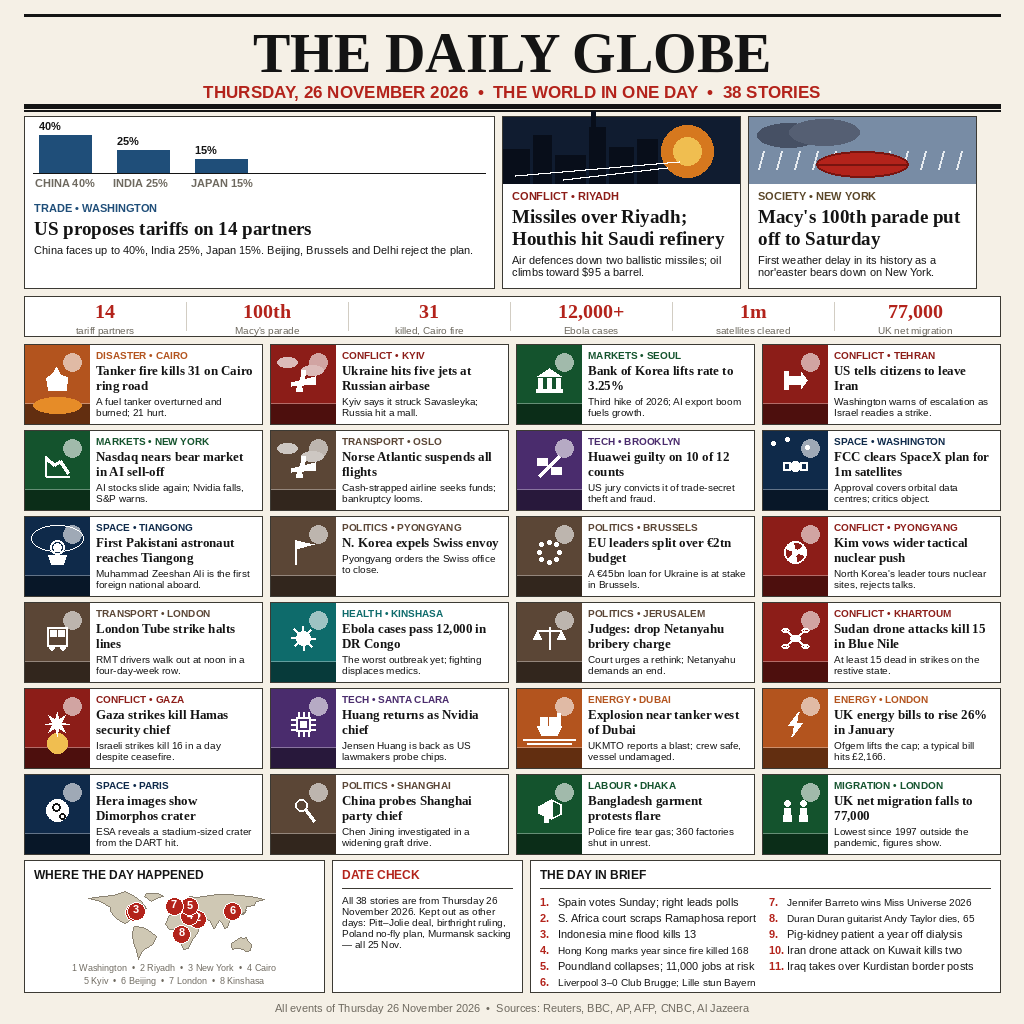
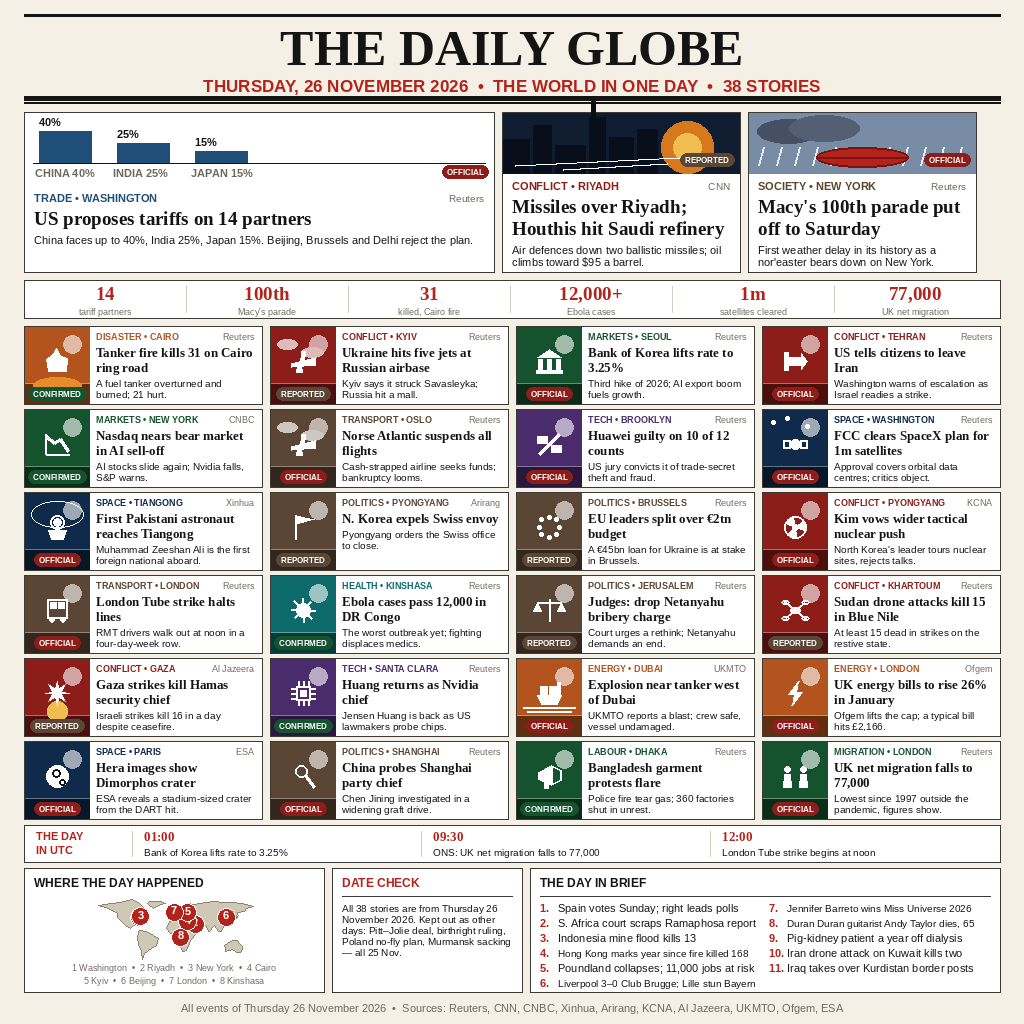
news-image-20261126 v4: UTC timeline strip, per-card source + status tags

diff --git a/render_news.py b/render_news.py
@@ -85,92 +85,116 @@ LEADS = [
          head="US proposes tariffs on 14 partners",
          summ="China faces up to 40%, India 25%, Japan 15%. Beijing, "
               "Brussels and Delhi reject the plan.",
-         kind="tariffs"),
+         kind="tariffs", src="Reuters", st="OFFICIAL"),
     dict(tag="CONFLICT", place="RIYADH", color=(140, 29, 24),
          head="Missiles over Riyadh; Houthis hit Saudi refinery",
          summ="Air defences down two ballistic missiles; oil climbs "
               "toward $95 a barrel.",
-         kind="missile"),
+         kind="missile", src="CNN", st="REPORTED"),
     dict(tag="SOCIETY", place="NEW YORK", color=(90, 70, 40),
          head="Macy's 100th parade put off to Saturday",
          summ="First weather delay in its history as a nor'easter "
               "bears down on New York.",
-         kind="balloon"),
+         kind="balloon", src="Reuters", st="OFFICIAL"),
 ]
 
 GRID = [
     ("DISASTER", "CAIRO", (179, 84, 30), "flame",
      "Tanker fire kills 31 on Cairo ring road",
-     "A fuel tanker overturned and burned; 21 hurt."),
+     "A fuel tanker overturned and burned; 21 hurt.",
+     "Reuters", "CONFIRMED"),
     ("CONFLICT", "KYIV", (140, 29, 24), "jet",
      "Ukraine hits five jets at Russian airbase",
-     "Kyiv says it struck Savasleyka; Russia hit a mall."),
+     "Kyiv says it struck Savasleyka; Russia hit a mall.",
+     "Reuters", "REPORTED"),
     ("MARKETS", "SEOUL", (20, 83, 45), "bank",
      "Bank of Korea lifts rate to 3.25%",
-     "Third hike of 2026; AI export boom fuels growth."),
+     "Third hike of 2026; AI export boom fuels growth.",
+     "Reuters", "OFFICIAL"),
     ("CONFLICT", "TEHRAN", (140, 29, 24), "exit",
      "US tells citizens to leave Iran",
-     "Washington warns of escalation as Israel readies a strike."),
+     "Washington warns of escalation as Israel readies a strike.",
+     "Reuters", "OFFICIAL"),
     ("MARKETS", "NEW YORK", (20, 83, 45), "down",
      "Nasdaq nears bear market in AI sell-off",
-     "AI stocks slide again; Nvidia falls, S&P warns."),
+     "AI stocks slide again; Nvidia falls, S&P warns.",
+     "CNBC", "CONFIRMED"),
     ("TRANSPORT", "OSLO", (91, 70, 54), "jet",
      "Norse Atlantic suspends all flights",
-     "Cash-strapped airline seeks funds; bankruptcy looms."),
+     "Cash-strapped airline seeks funds; bankruptcy looms.",
+     "Reuters", "OFFICIAL"),
     ("TECH", "BROOKLYN", (74, 44, 109), "gavel",
      "Huawei guilty on 10 of 12 counts",
-     "US jury convicts it of trade-secret theft and fraud."),
+     "US jury convicts it of trade-secret theft and fraud.",
+     "Reuters", "OFFICIAL"),
     ("SPACE", "WASHINGTON", (15, 42, 74), "sat",
      "FCC clears SpaceX plan for 1m satellites",
-     "Approval covers orbital data centres; critics object."),
+     "Approval covers orbital data centres; critics object.",
+     "Reuters", "OFFICIAL"),
     ("SPACE", "TIANGONG", (15, 42, 74), "astro",
      "First Pakistani astronaut reaches Tiangong",
-     "Muhammad Zeeshan Ali is the first foreign national aboard."),
+     "Muhammad Zeeshan Ali is the first foreign national aboard.",
+     "Xinhua", "OFFICIAL"),
     ("POLITICS", "PYONGYANG", (91, 70, 54), "flag",
      "N. Korea expels Swiss envoy",
-     "Pyongyang orders the Swiss office to close."),
+     "Pyongyang orders the Swiss office to close.",
+     "Arirang", "REPORTED"),
     ("POLITICS", "BRUSSELS", (91, 70, 54), "stars",
      "EU leaders split over \u20ac2tn budget",
-     "A \u20ac45bn loan for Ukraine is at stake in Brussels."),
+     "A \u20ac45bn loan for Ukraine is at stake in Brussels.",
+     "Reuters", "REPORTED"),
     ("CONFLICT", "PYONGYANG", (140, 29, 24), "nuke",
      "Kim vows wider tactical nuclear push",
-     "North Korea's leader tours nuclear sites, rejects talks."),
+     "North Korea's leader tours nuclear sites, rejects talks.",
+     "KCNA", "OFFICIAL"),
     ("TRANSPORT", "LONDON", (91, 70, 54), "train",
      "London Tube strike halts lines",
-     "RMT drivers walk out at noon in a four-day-week row."),
+     "RMT drivers walk out at noon in a four-day-week row.",
+     "Reuters", "OFFICIAL"),
     ("HEALTH", "KINSHASA", (14, 107, 107), "virus",
      "Ebola cases pass 12,000 in DR Congo",
-     "The worst outbreak yet; fighting displaces medics."),
+     "The worst outbreak yet; fighting displaces medics.",
+     "Reuters", "CONFIRMED"),
     ("POLITICS", "JERUSALEM", (91, 70, 54), "scales",
      "Judges: drop Netanyahu bribery charge",
-     "Court urges a rethink; Netanyahu demands an end."),
+     "Court urges a rethink; Netanyahu demands an end.",
+     "Reuters", "REPORTED"),
     ("CONFLICT", "KHARTOUM", (140, 29, 24), "drone",
      "Sudan drone attacks kill 15 in Blue Nile",
-     "At least 15 dead in strikes on the restive state."),
+     "At least 15 dead in strikes on the restive state.",
+     "Reuters", "REPORTED"),
     ("CONFLICT", "GAZA", (140, 29, 24), "burst",
      "Gaza strikes kill Hamas security chief",
-     "Israeli strikes kill 16 in a day despite ceasefire."),
+     "Israeli strikes kill 16 in a day despite ceasefire.",
+     "Al Jazeera", "REPORTED"),
     ("TECH", "SANTA CLARA", (74, 44, 109), "chip",
      "Huang returns as Nvidia chief",
-     "Jensen Huang is back as US lawmakers probe chips."),
+     "Jensen Huang is back as US lawmakers probe chips.",
+     "Reuters", "CONFIRMED"),
     ("ENERGY", "DUBAI", (179, 84, 30), "ship",
      "Explosion near tanker west of Dubai",
-     "UKMTO reports a blast; crew safe, vessel undamaged."),
+     "UKMTO reports a blast; crew safe, vessel undamaged.",
+     "UKMTO", "OFFICIAL"),
     ("ENERGY", "LONDON", (179, 84, 30), "bolt",
      "UK energy bills to rise 26% in January",
-     "Ofgem lifts the cap; a typical bill hits \u00a32,166."),
+     "Ofgem lifts the cap; a typical bill hits \u00a32,166.",
+     "Ofgem", "OFFICIAL"),
     ("SPACE", "PARIS", (15, 42, 74), "rock",
      "Hera images show Dimorphos crater",
-     "ESA reveals a stadium-sized crater from the DART hit."),
+     "ESA reveals a stadium-sized crater from the DART hit.",
+     "ESA", "OFFICIAL"),
     ("POLITICS", "SHANGHAI", (91, 70, 54), "probe",
      "China probes Shanghai party chief",
-     "Chen Jining investigated in a widening graft drive."),
+     "Chen Jining investigated in a widening graft drive.",
+     "Reuters", "OFFICIAL"),
     ("LABOUR", "DHAKA", (20, 83, 45), "mega",
      "Bangladesh garment protests flare",
-     "Police fire tear gas; 360 factories shut in unrest."),
+     "Police fire tear gas; 360 factories shut in unrest.",
+     "Reuters", "CONFIRMED"),
     ("MIGRATION", "LONDON", (20, 83, 45), "people",
      "UK net migration falls to 77,000",
-     "Lowest since 1997 outside the pandemic, figures show."),
+     "Lowest since 1997 outside the pandemic, figures show.",
+     "Reuters", "OFFICIAL"),
 ]
 
 BRIEF = [
@@ -202,6 +226,25 @@ STATS = [
 DATECHECK = ("All 38 stories are from Thursday 26 November 2026. Kept out "
              "as other days: Pitt\u2013Jolie deal, birthright ruling, "
              "Poland no-fly plan, Murmansk sacking \u2014 all 25 Nov.")
+
+# The day in UTC: only events with a verifiable UTC time on 26 Nov make
+# the strip. BoK announced ~01:00 GMT (Reuters); the ONS figures were
+# published at 09:30 (ONS release); the Tube strike starts at noon GMT
+# (Reuters). Everything else on the page has no solid UTC hour, so the
+# strip stays short rather than padded with guesses.
+TIMELINE = [
+    ("01:00", "Bank of Korea lifts rate to 3.25%"),
+    ("09:30", "ONS: UK net migration falls to 77,000"),
+    ("12:00", "London Tube strike begins at noon"),
+]
+
+# Status tags: OFFICIAL only for an official statement or announcement,
+# CONFIRMED where the fact is independently confirmed, REPORTED otherwise.
+STATUS_COLORS = {
+    "OFFICIAL": (140, 29, 24),
+    "CONFIRMED": (20, 83, 45),
+    "REPORTED": (91, 70, 54),
+}
 
 # Numbered dots on the world map: (lon, lat, number, label).
 DOTS = [
@@ -494,15 +537,15 @@ CONTINENTS = [
 def draw_masthead(d):
     d.rectangle([24, 14, 1000, 16], fill=INK)
     title = "THE DAILY GLOBE"
-    fnt = font(SERIF_B, 56)
+    fnt = font(SERIF_B, 50)
     tw = fnt.getlength(title)
-    d.text(((W - tw) / 2, 22), title, font=fnt, fill=INK)
+    d.text(((W - tw) / 2, 20), title, font=fnt, fill=INK)
     sub = "THURSDAY, 26 NOVEMBER 2026  \u2022  THE WORLD IN ONE DAY  \u2022  38 STORIES"
     fnt2 = font(SANS_B, 17)
     tw2 = fnt2.getlength(sub)
-    d.text(((W - tw2) / 2, 82), sub, font=fnt2, fill=RED)
-    d.rectangle([24, 104, 1000, 108], fill=INK)
-    d.rectangle([24, 110, 1000, 111], fill=INK)
+    d.text(((W - tw2) / 2, 76), sub, font=fnt2, fill=RED)
+    d.rectangle([24, 96, 1000, 100], fill=INK)
+    d.rectangle([24, 102, 1000, 103], fill=INK)
 
 
 def draw_bar_chart(d, x, y, w, h):
@@ -560,13 +603,41 @@ def draw_lead_visual(d, kind, x, y, w, h):
         return
 
 
+def status_pill_width(st):
+    return int(font(SANS_B, 8).getlength(st)) + 10
+
+
+def draw_status_pill(d, st, x, y):
+    """Small white-on-dark status chip; x, y = top-left of the pill."""
+    fnt = font(SANS_B, 8)
+    pw = status_pill_width(st)
+    d.rounded_rectangle([x, y, x + pw, y + 13], radius=6,
+                        fill=STATUS_COLORS[st])
+    tw = fnt.getlength(st)
+    d.text((x + (pw - tw) / 2, y + 2), st, font=fnt, fill=WHITE)
+    return pw
+
+
+def draw_tagline(d, tx, ty, tw, tag, place, color, src, tag_size=10,
+                 src_size=9):
+    """Tag + place left, source right-aligned, one line."""
+    d.text((tx, ty), f"{tag} \u2022 {place}", font=font(SANS_B, tag_size),
+           fill=color)
+    if src:
+        fnt = font(SANS, src_size)
+        sw = fnt.getlength(src)
+        d.text((tx + tw - sw, ty), src, font=fnt, fill=GREY)
+
+
 def draw_lead(d, lead, x, y, w, h):
     d.rectangle([x, y, x + w, y + h], fill=WHITE, outline=RULE, width=1)
-    vh = 66 if lead["kind"] != "tariffs" else 78
+    vh = 60 if lead["kind"] != "tariffs" else 72
     draw_lead_visual(d, lead["kind"], x + 1, y + 1, w - 2, vh)
+    pw = status_pill_width(lead["st"])
+    draw_status_pill(d, lead["st"], x + w - 6 - pw, y + vh - 19)
     ty = y + vh + 8
-    tag = f"{lead['tag']} \u2022 {lead['place']}"
-    d.text((x + 10, ty), tag, font=font(SANS_B, 11), fill=lead["color"])
+    draw_tagline(d, x + 10, ty, w - 20, lead["tag"], lead["place"],
+                 lead["color"], lead["src"], tag_size=11, src_size=10)
     ty += 16
     ty = draw_fitted(d, (x + 10, ty), lead["head"], SERIF_B, 19, w - 20, 2,
                      tag="lead:" + lead["tag"])
@@ -583,7 +654,7 @@ def _blend(color, f=0.6):
     return tuple(int(c + (255 - c) * f) for c in color)
 
 
-def draw_mini_scene(d, kind, color, x, y, w, h):
+def draw_mini_scene(d, kind, color, x, y, w, h, st=None):
     """Small drawn scene for a grid card: coloured sky, ground, sun and a
     white pictogram, with a couple of shapes per subject."""
     d.rectangle([x, y, x + w, y + h], fill=color)
@@ -608,17 +679,20 @@ def draw_mini_scene(d, kind, color, x, y, w, h):
         d.ellipse([x + w // 2 - 10, gy - 14, x + w // 2 + 10, gy + 6],
                   fill=(240, 190, 80))
     ICONS[kind](d, x + (w - 40) // 2, y + (h - 40) // 2 - 4, 40)
+    if st:
+        pw = status_pill_width(st)
+        draw_status_pill(d, st, x + (w - pw) // 2, y + h - 16)
 
 
 def draw_card(d, item, x, y, w, h):
-    tag, place, color, kind, head, summ = item
+    tag, place, color, kind, head, summ, src, st = item
     d.rectangle([x, y, x + w, y + h], fill=WHITE, outline=RULE, width=1)
     sw = 64
-    draw_mini_scene(d, kind, color, x + 1, y + 1, sw, h - 2)
+    draw_mini_scene(d, kind, color, x + 1, y + 1, sw, h - 2, st)
     tx = x + sw + 8
     tw = w - sw - 16
-    d.text((tx, y + 5), f"{tag} \u2022 {place}", font=font(SANS_B, 10),
-           fill=color)
+    draw_tagline(d, tx, y + 5, tw, tag, place, color, src, tag_size=9,
+                 src_size=9)
     ty = draw_fitted(d, (tx, y + 19), head, SERIF_B, 13, tw, 2,
                      tag="card:" + tag)
     draw_fitted(d, (tx, ty + 2), summ, SANS, 10, tw, 2,
@@ -670,7 +744,7 @@ def draw_brief(d, x, y, w, h):
     for i, (_tag, line) in enumerate(BRIEF):
         col, row = divmod(i, 6)
         bx = x + 10 + col * (colw + 4)
-        by = y + 36 + row * 16
+        by = y + 34 + row * 15
         d.text((bx, by), f"{i + 1}.", font=font(SANS_B, 11), fill=RED)
         draw_fitted(d, (bx + 18, by), line, SANS, 11, colw - 22, 1,
                     tag="brief")
@@ -683,12 +757,30 @@ def draw_stat_strip(d, x, y, w, h):
         cx = x + i * cw
         if i:
             d.line([cx, y + 6, cx, y + h - 6], fill=(210, 205, 195), width=1)
-        f1 = font(SERIF_B, 20)
+        f1 = font(SERIF_B, 19)
         tw = f1.getlength(num)
-        d.text((cx + (cw - tw) / 2, y + 4), num, font=f1, fill=RED)
-        f2 = font(SANS, 10)
+        d.text((cx + (cw - tw) / 2, y + 3), num, font=f1, fill=RED)
+        f2 = font(SANS, 9)
         tw2 = f2.getlength(label)
-        d.text((cx + (cw - tw2) / 2, y + 28), label, font=f2, fill=GREY)
+        d.text((cx + (cw - tw2) / 2, y + 26), label, font=f2, fill=GREY)
+
+
+def draw_timeline(d, x, y, w, h):
+    d.rectangle([x, y, x + w, y + h], fill=WHITE, outline=RULE, width=1)
+    tw_ = 108
+    d.text((x + 12, y + 5), "THE DAY", font=font(SANS_B, 11), fill=RED)
+    d.text((x + 12, y + 19), "IN UTC", font=font(SANS_B, 11), fill=RED)
+    d.line([x + tw_, y + 6, x + tw_, y + h - 6], fill=(210, 205, 195),
+           width=1)
+    cw = (w - tw_) // len(TIMELINE)
+    for i, (t, label) in enumerate(TIMELINE):
+        cx = x + tw_ + i * cw
+        if i:
+            d.line([cx, y + 6, cx, y + h - 6], fill=(210, 205, 195),
+                   width=1)
+        d.text((cx + 12, y + 4), t, font=font(SERIF_B, 13), fill=RED)
+        draw_fitted(d, (cx + 12, y + 21), label, SANS, 10, cw - 24, 1,
+                    tag="timeline")
 
 
 def draw_datecheck(d, x, y, w, h):
@@ -704,24 +796,27 @@ def build():
     d = ImageDraw.Draw(img)
     draw_masthead(d)
     # lead band
-    draw_lead(d, LEADS[0], 24, 116, 470, 172)
-    draw_lead(d, LEADS[1], 502, 116, 238, 172)
-    draw_lead(d, LEADS[2], 748, 116, 228, 172)
+    draw_lead(d, LEADS[0], 24, 112, 470, 160)
+    draw_lead(d, LEADS[1], 502, 112, 238, 160)
+    draw_lead(d, LEADS[2], 748, 112, 228, 160)
     # numbers strip
-    draw_stat_strip(d, 24, 296, 976, 40)
+    draw_stat_strip(d, 24, 280, 976, 38)
     # grid: 4 columns x 6 rows, every card illustrated
-    cw, ch, gap = 238, 80, 8
+    cw, ch, gap = 238, 78, 8
     for i, item in enumerate(GRID):
         cx = 24 + (i % 4) * (cw + gap)
-        cy = 344 + (i // 4) * (ch + 6)
+        cy = 326 + (i // 4) * (ch + 5)
         draw_card(d, item, cx, cy, cw, ch)
+    # the day in UTC
+    draw_timeline(d, 24, 825, 976, 37)
     # bottom band: shrunken map, date check, briefs
-    draw_map(d, 24, 860, 300, 132)
-    draw_datecheck(d, 332, 860, 190, 132)
-    draw_brief(d, 530, 860, 470, 132)
+    draw_map(d, 24, 868, 300, 124)
+    draw_datecheck(d, 332, 868, 190, 124)
+    draw_brief(d, 530, 868, 470, 124)
     # footer
     foot = ("All events of Thursday 26 November 2026  \u2022  Sources: "
-            "Reuters, BBC, AP, AFP, CNBC, Al Jazeera")
+            "Reuters, CNN, CNBC, Xinhua, Arirang, KCNA, Al Jazeera, "
+            "UKMTO, Ofgem, ESA")
     fnt = font(SANS, 11)
     tw = fnt.getlength(foot)
     d.text(((W - tw) / 2, 1002), foot, font=fnt, fill=GREY)
